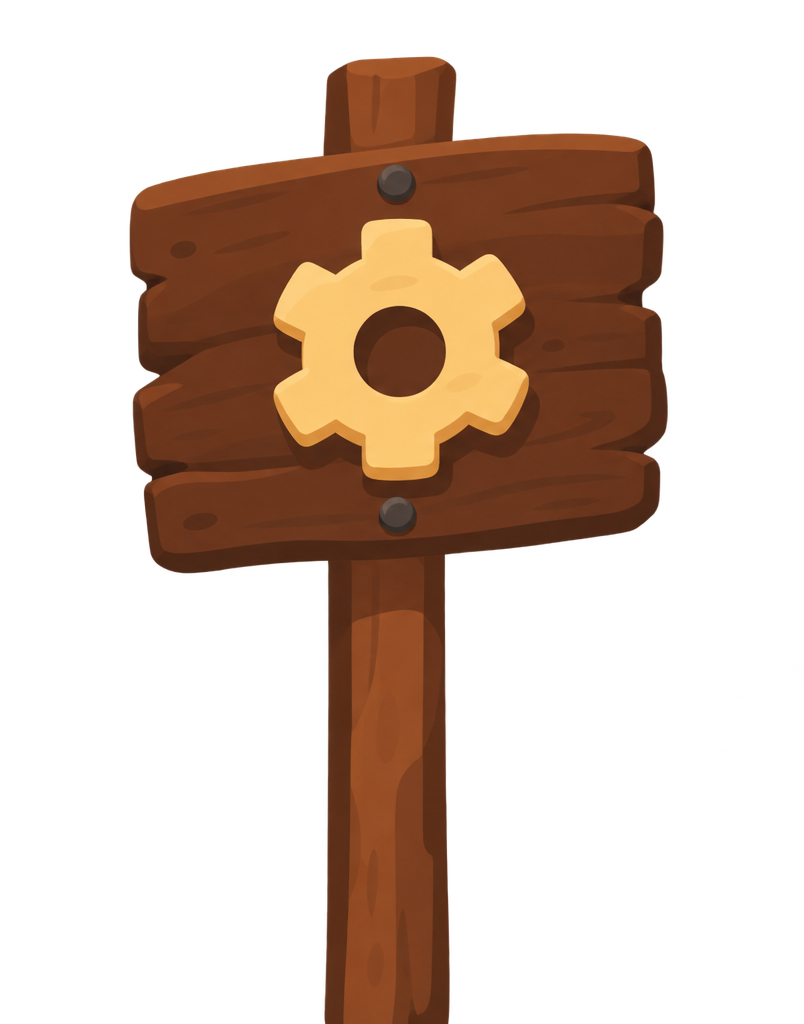
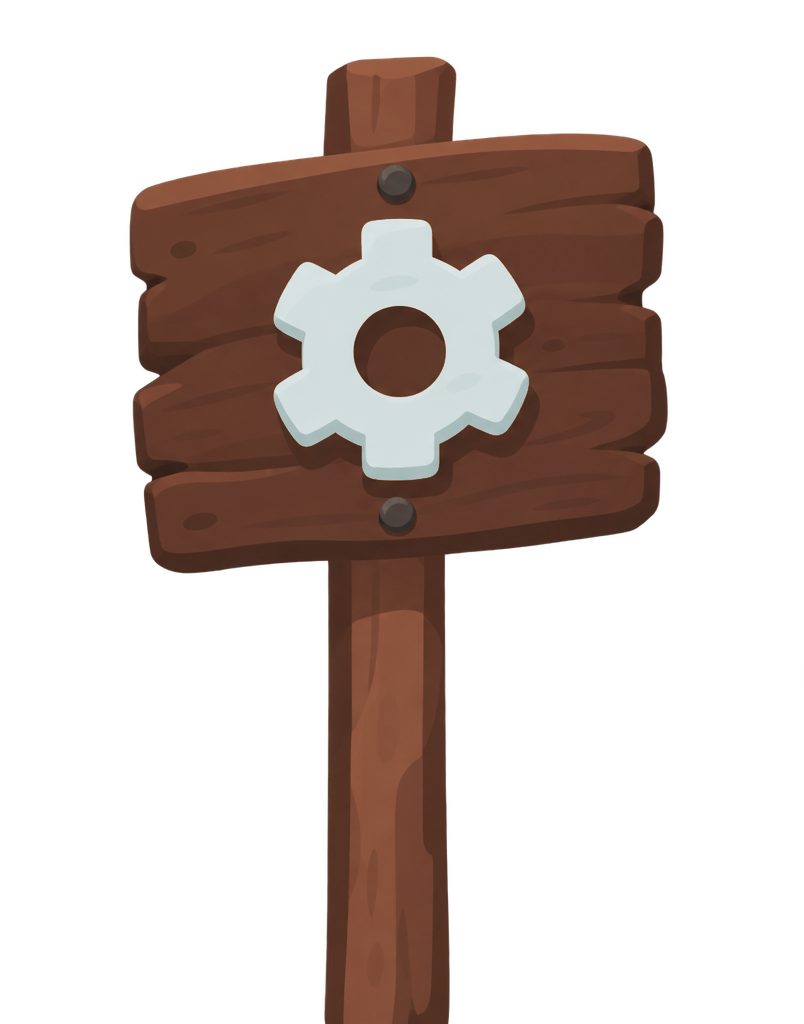
settings and exit button tweaks

Changed region(s): [[0.342, 0.1875, 0.653, 0.4688], [0.4353, 0.6875, 0.4664, 0.7812], [0.4353, 0.0625, 0.5286, 0.0938]]

diff --git a/src/app/mainmenu.tsx b/src/app/mainmenu.tsx
@@ -184,7 +184,7 @@ export default function MainMenuScreen() {
           >
             <Image
               source={require('@/assets/images/settings.png')}
-              style={[styles.icon, { width: controlSize, height: controlSize }]}
+              style={[styles.icon, { width: controlSize, height: controlSize, transform: [{ rotate: '-10deg' }] }]}
             />
           </TouchableOpacity>
 
@@ -195,7 +195,7 @@ export default function MainMenuScreen() {
           >
             <Image
               source={require('@/assets/images/door.png')}
-              style={[styles.icon, { width: controlSize, height: controlSize }]}
+              style={[styles.icon, { width: controlSize, height: controlSize, transform: [{ rotate: '10deg' }] }]}
             />
           </TouchableOpacity>
         </View>
